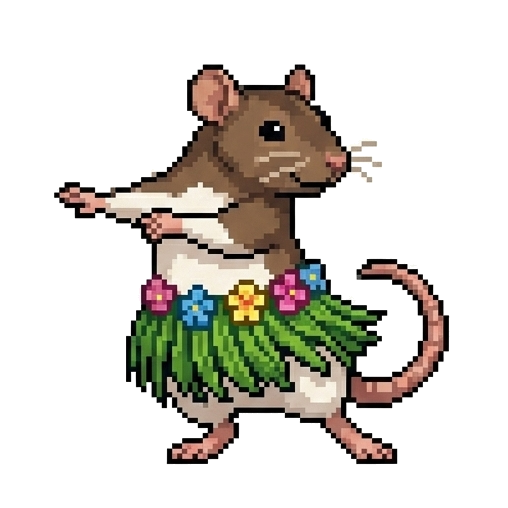
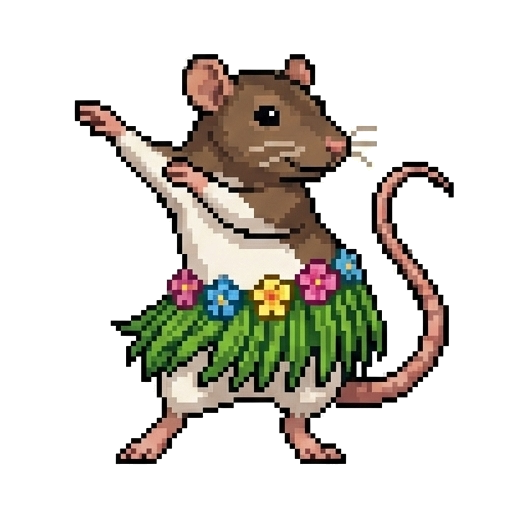
style: Remove stiff middle frames and revert to 14 smooth frames

Changed region(s): [[0.0886, 0.0886, 0.9154, 0.9154]]

diff --git a/AgentPet.swift b/AgentPet.swift
@@ -63,7 +63,7 @@ class AppDelegate: NSObject, NSApplicationDelegate {
         for i in 0...13 {
             if let frame = loadSprite("hulaCat\(i)") { hulaCatFrames.append(frame) }
         }
-        for i in 0...15 {
+        for i in 0...13 {
             if let frame = loadSprite("hulaRat\(i)") { hulaRatFrames.append(frame) }
         }
         
